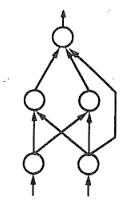
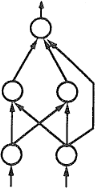
change, crop images and place them with more space in between

Changed region(s): [[0.0, 0.0, 1.0, 1.0], [0.8438, 0.0529, 0.875, 0.0794], [0.0625, 0.3704, 0.0938, 0.3968]]

diff --git a/end/sections/03_theory_oryg.tex b/end/sections/03_theory_oryg.tex
@@ -23,8 +23,9 @@ ale tylko ta po prawej jest wielowarstwowym perceptronem (MLP):
 
 \noindent
 \begin{center}
-  \includegraphics[trim={0 0 0 0}, width=4cm, clip]{fnn.png}
-  \includegraphics[trim={0 0 0 0}, width=3.25cm, clip]{fnn_mlp.png}
+  \includegraphics[trim={0 0 0 0}, height=6.5cm, clip]{fnn.png}
+  \hspace{2cm}
+  \includegraphics[trim={0 0 0 0}, height=6.5cm, clip]{fnn_mlp.png}
 \end{center}
 
 \noindent
